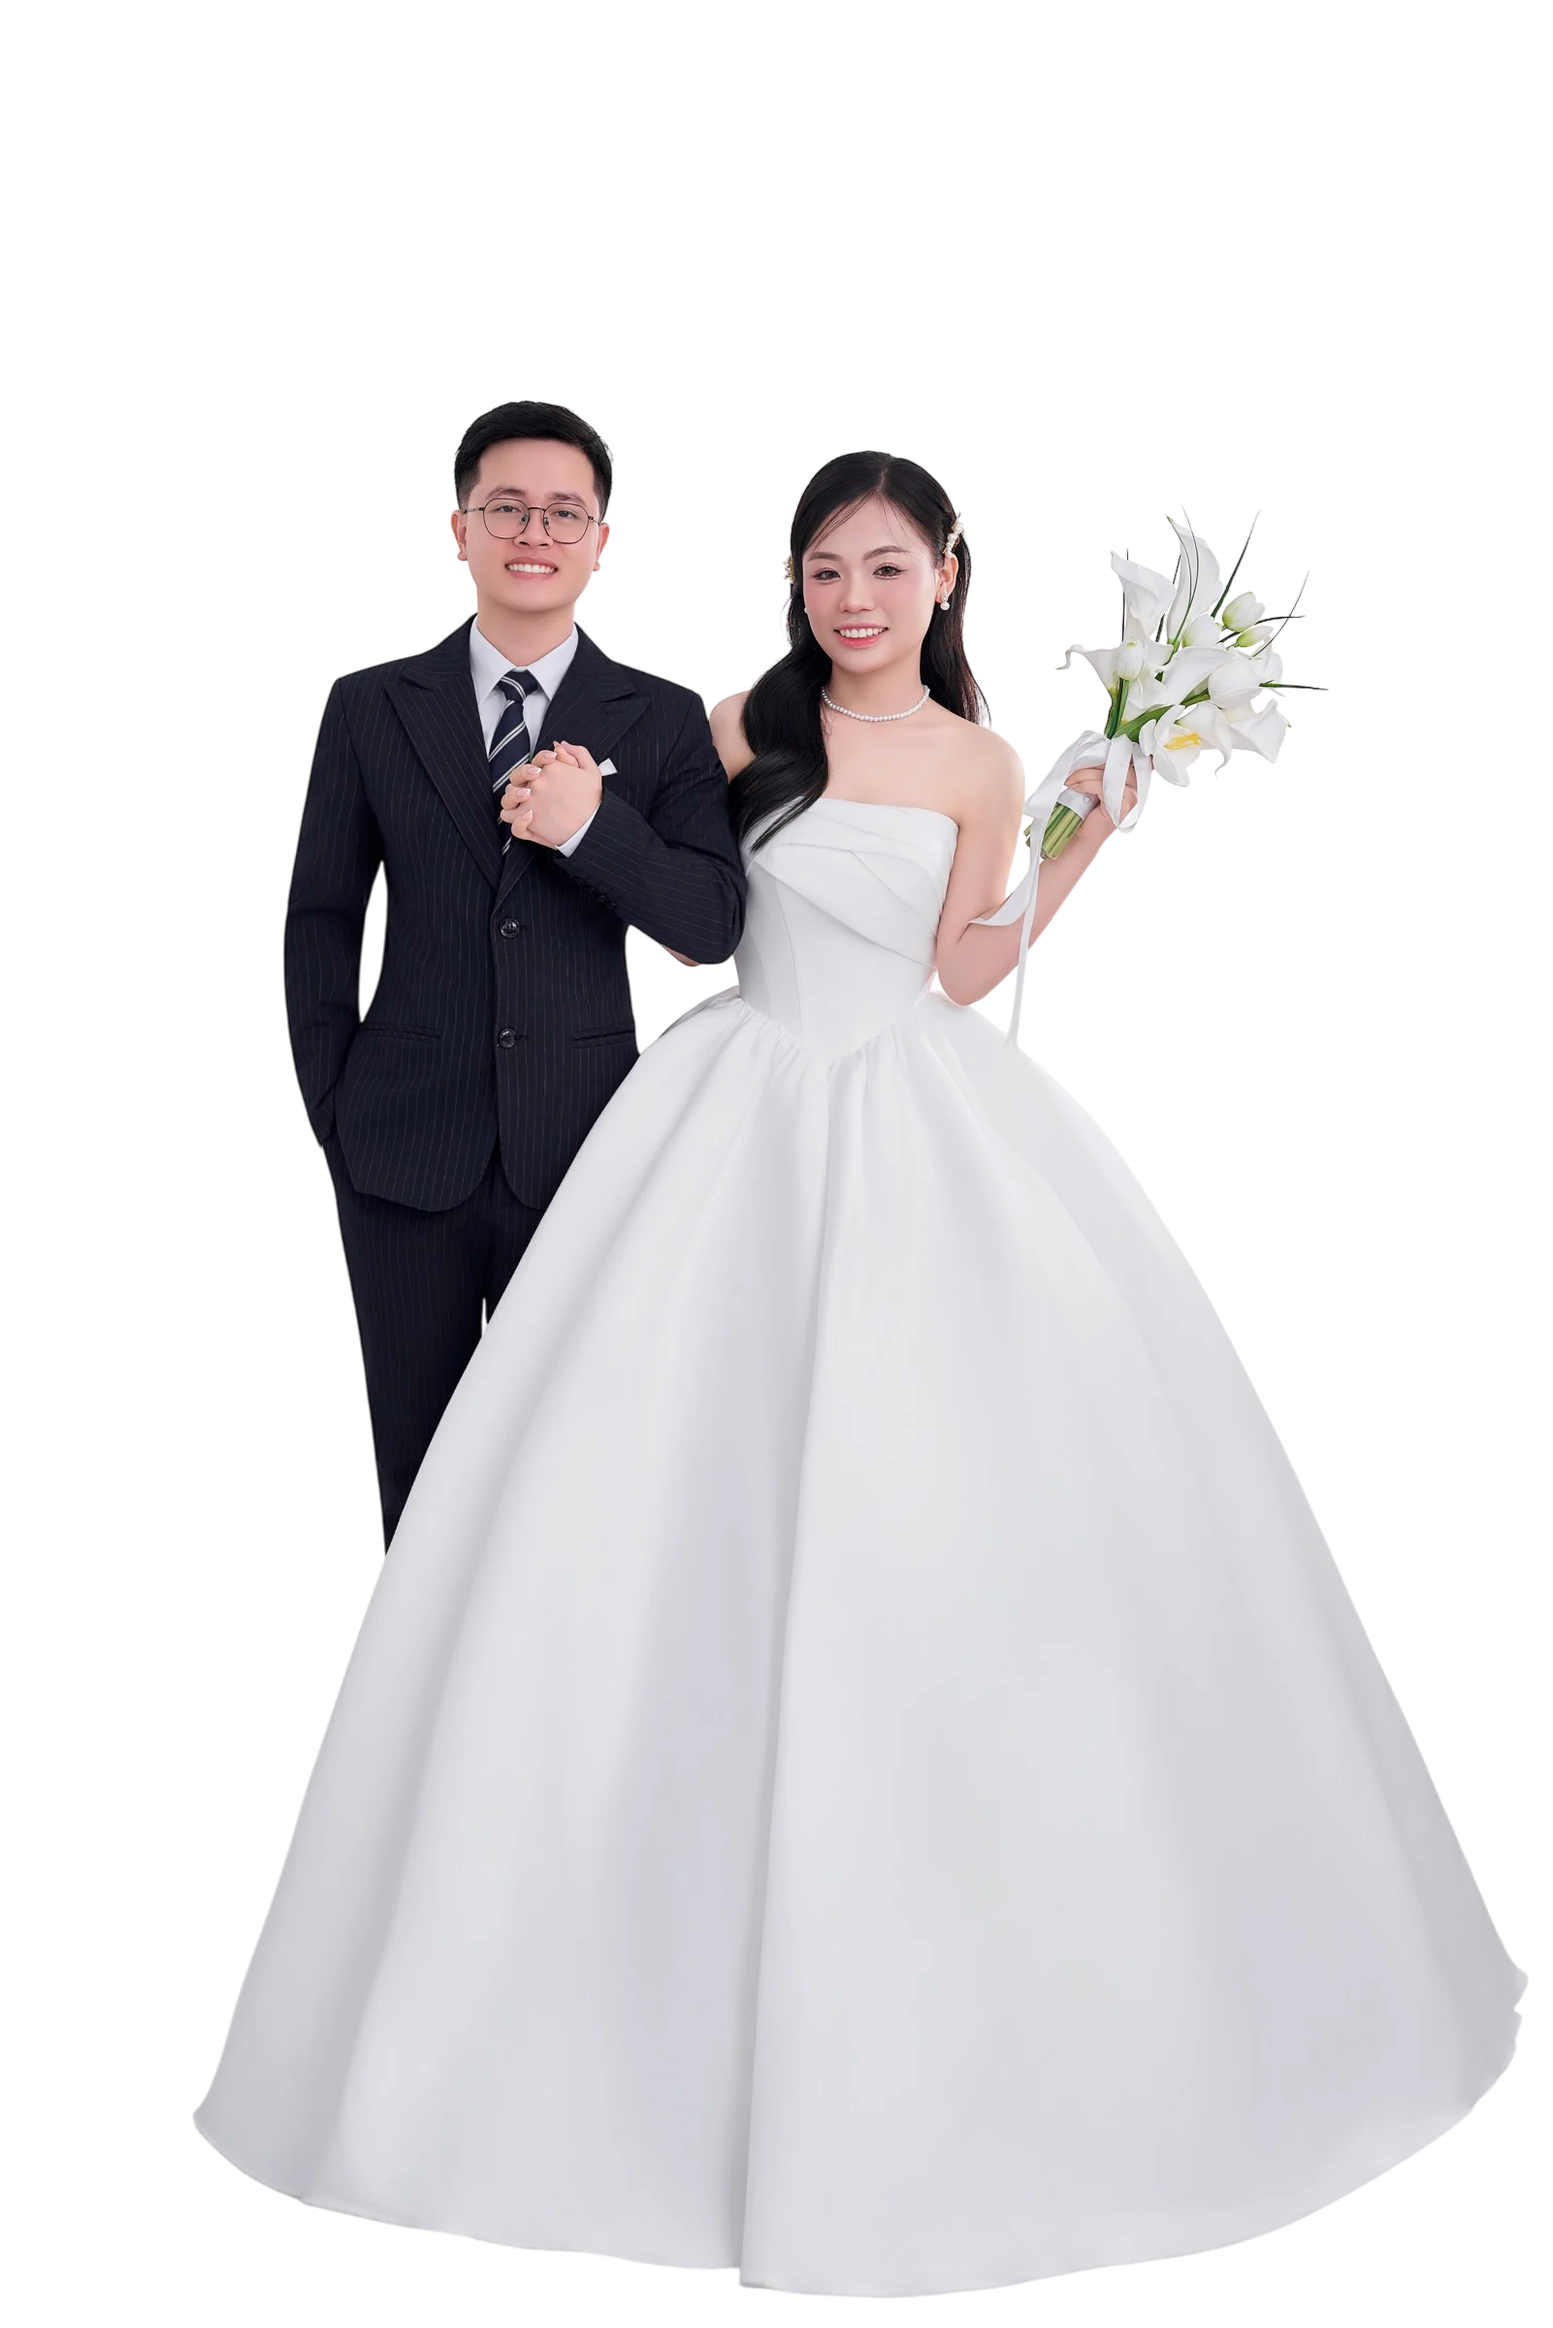
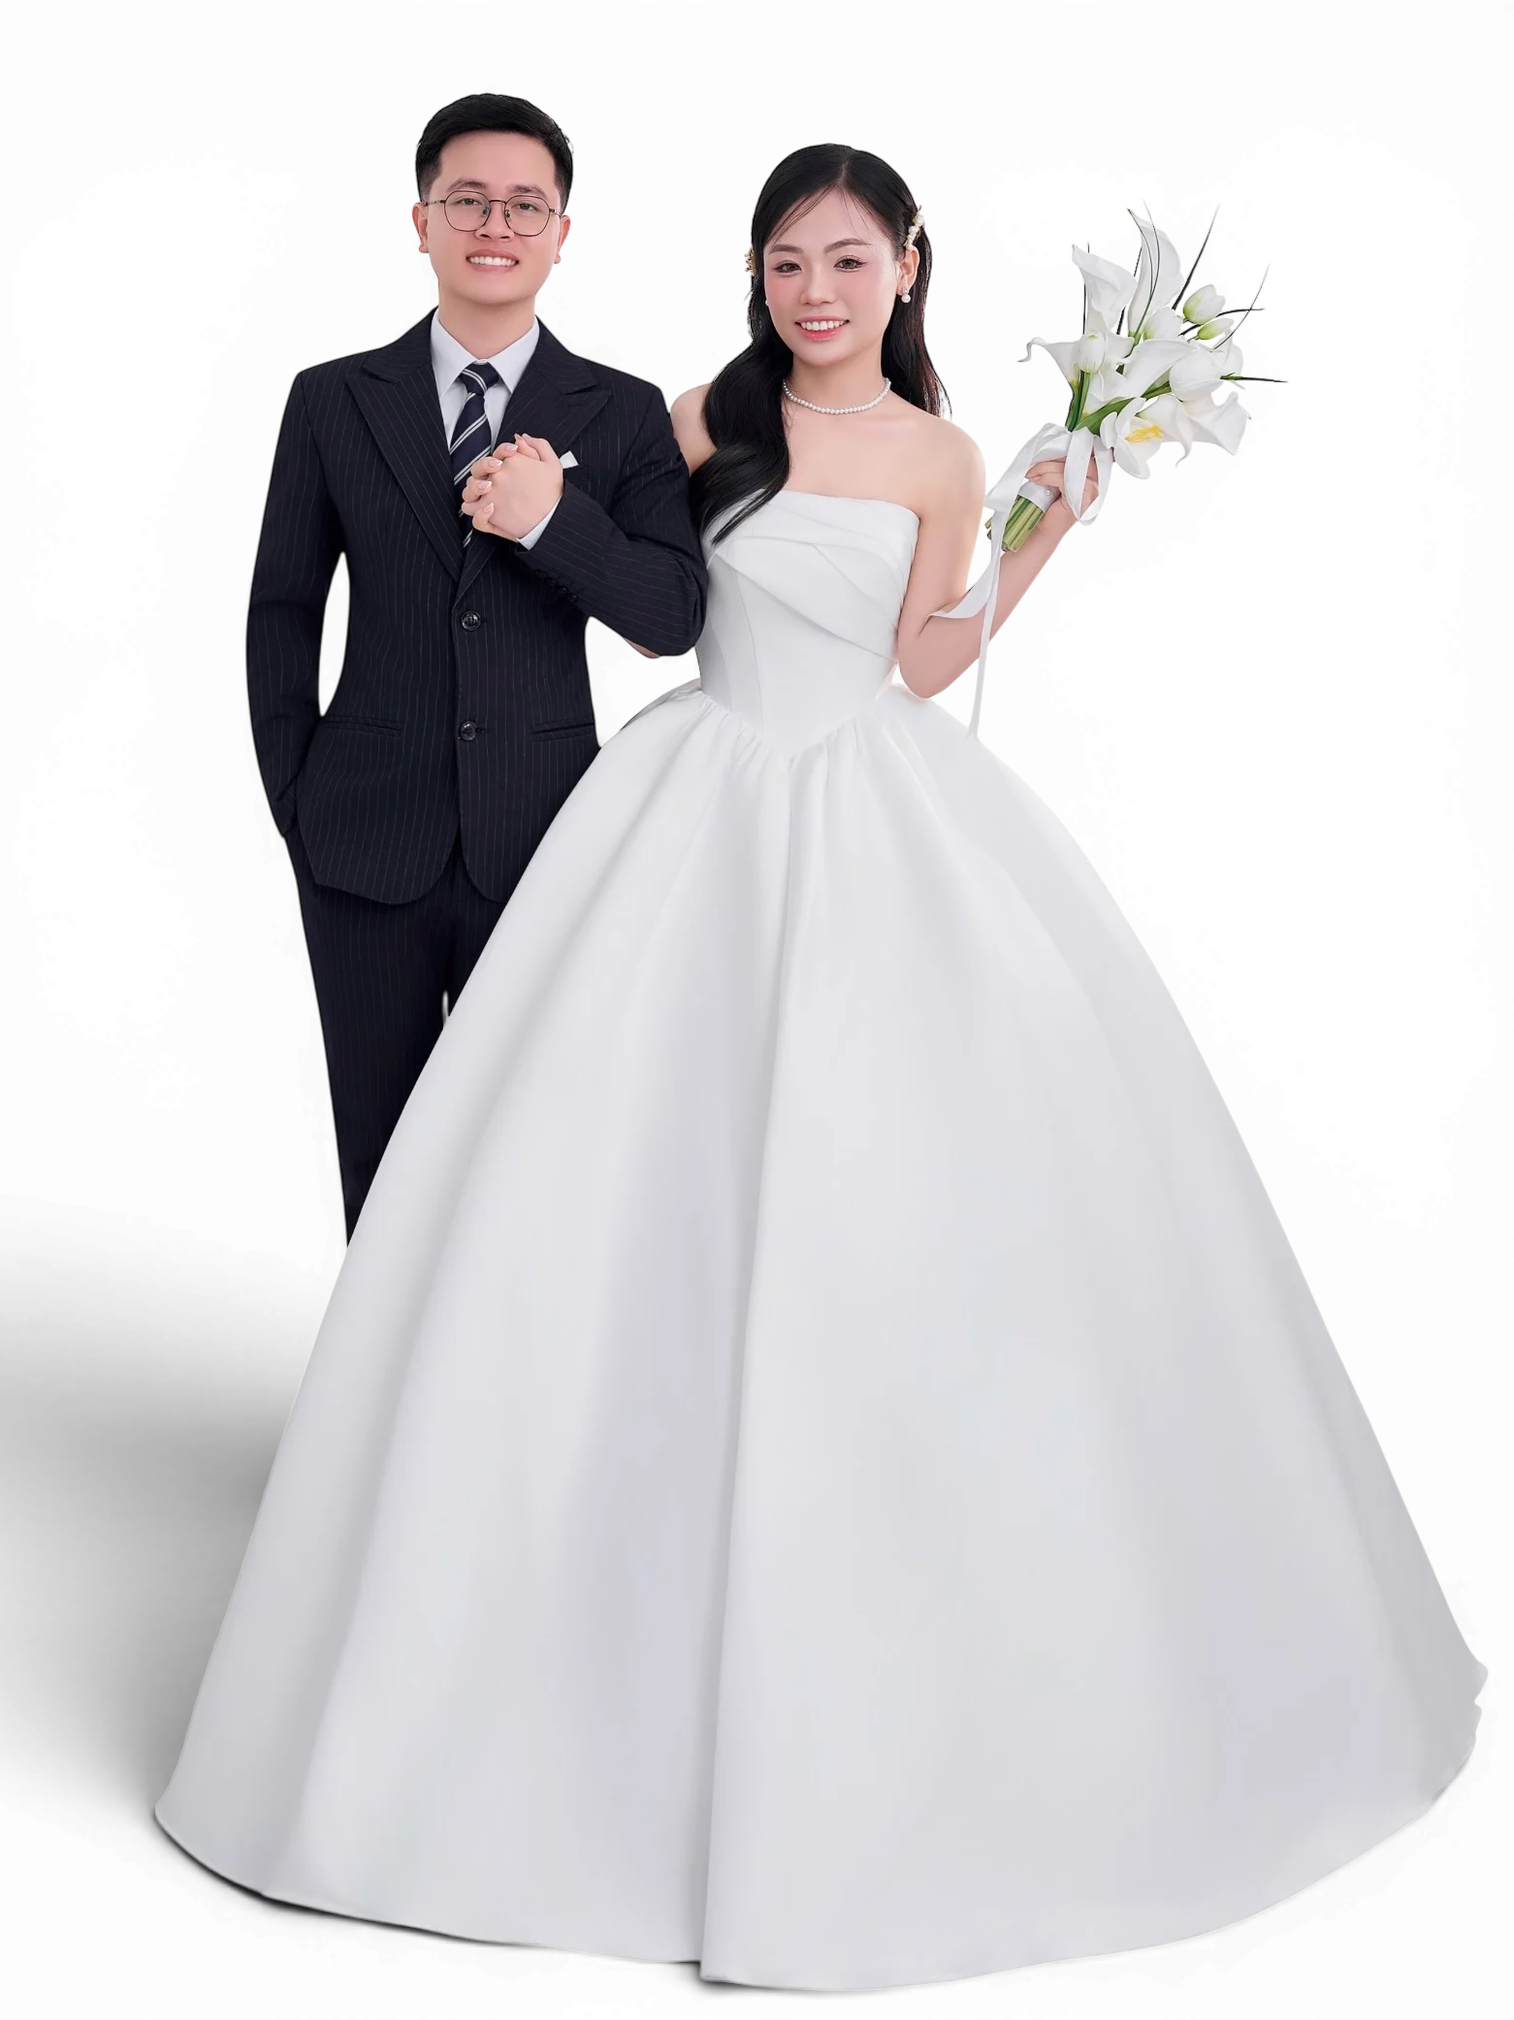
fix: use object-contain for hero image to prevent cropping and restore premium styling

diff --git a/components/hero/hero-section.tsx b/components/hero/hero-section.tsx
@@ -91,24 +91,16 @@ export const HeroSection = ({ guest }: HeroSectionProps) => {
           </div>
 
           <motion.div
-            className='group relative aspect-3/4 w-full max-w-100 overflow-hidden rounded-2xl border-2 border-gold/30 shadow-[0_20px_50px_rgba(0,0,0,0.3)] md:w-2/5'
+            className='group relative aspect-3/4 w-full max-w-100 overflow-hidden rounded-2xl border border-white/10 bg-[#8b1a2b] shadow-[0_20px_50px_rgba(0,0,0,0.3)] md:w-2/5'
             variants={itemVariants}>
             <Image
               fill
               priority
               alt='Tùng & Vân — Ảnh cưới'
-              className='object-cover transition-transform duration-700 group-hover:scale-105'
+              className='object-contain transition-transform duration-700'
               sizes='(max-width: 768px) 100vw, 40vw'
               src='/images/hero-portrait.webp'
             />
-            {/* Subtle color-correcting overlay to unify the red tones */}
-            <div className='pointer-events-none absolute inset-0 bg-wine/5 mix-blend-multiply' />
-
-            {/* Premium inner border decoration */}
-            <div className='pointer-events-none absolute inset-3 rounded-xl border border-gold/20' />
-
-            {/* Glossy overlay for a glass-like finish */}
-            <div className='pointer-events-none absolute inset-0 bg-linear-to-tr from-white/5 via-transparent to-white/10' />
           </motion.div>
         </motion.div>
       </SectionWrapper>
